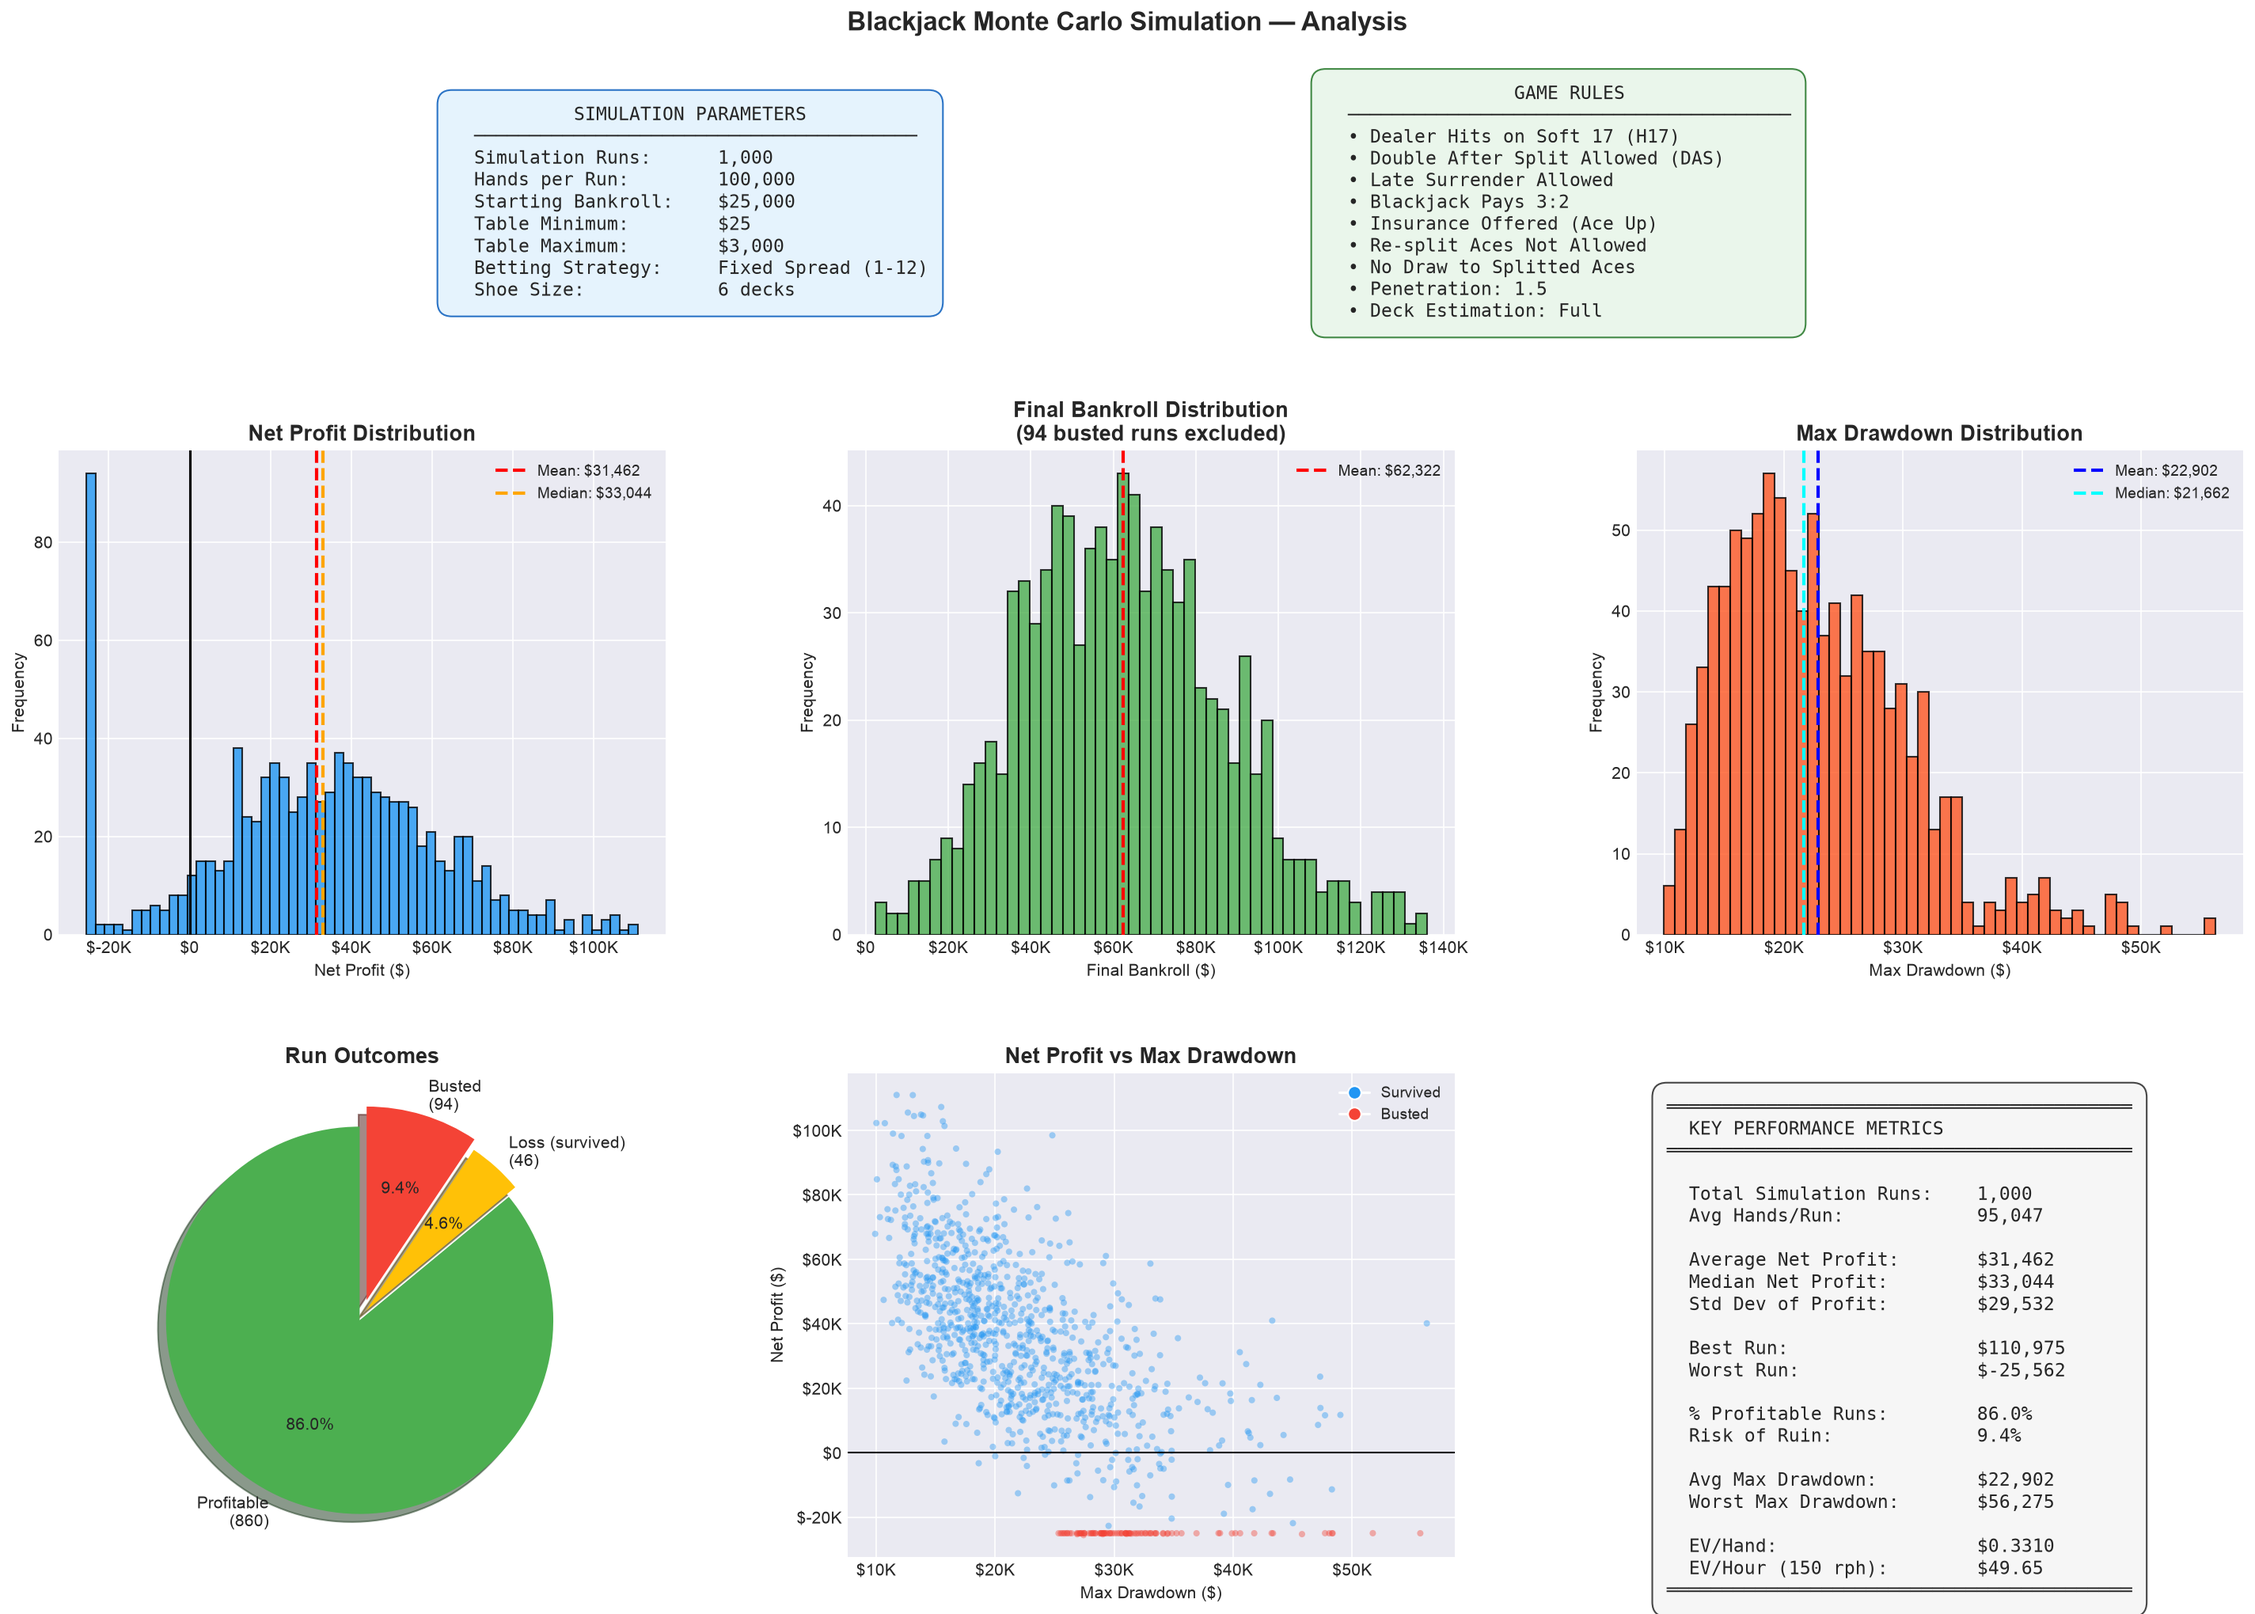
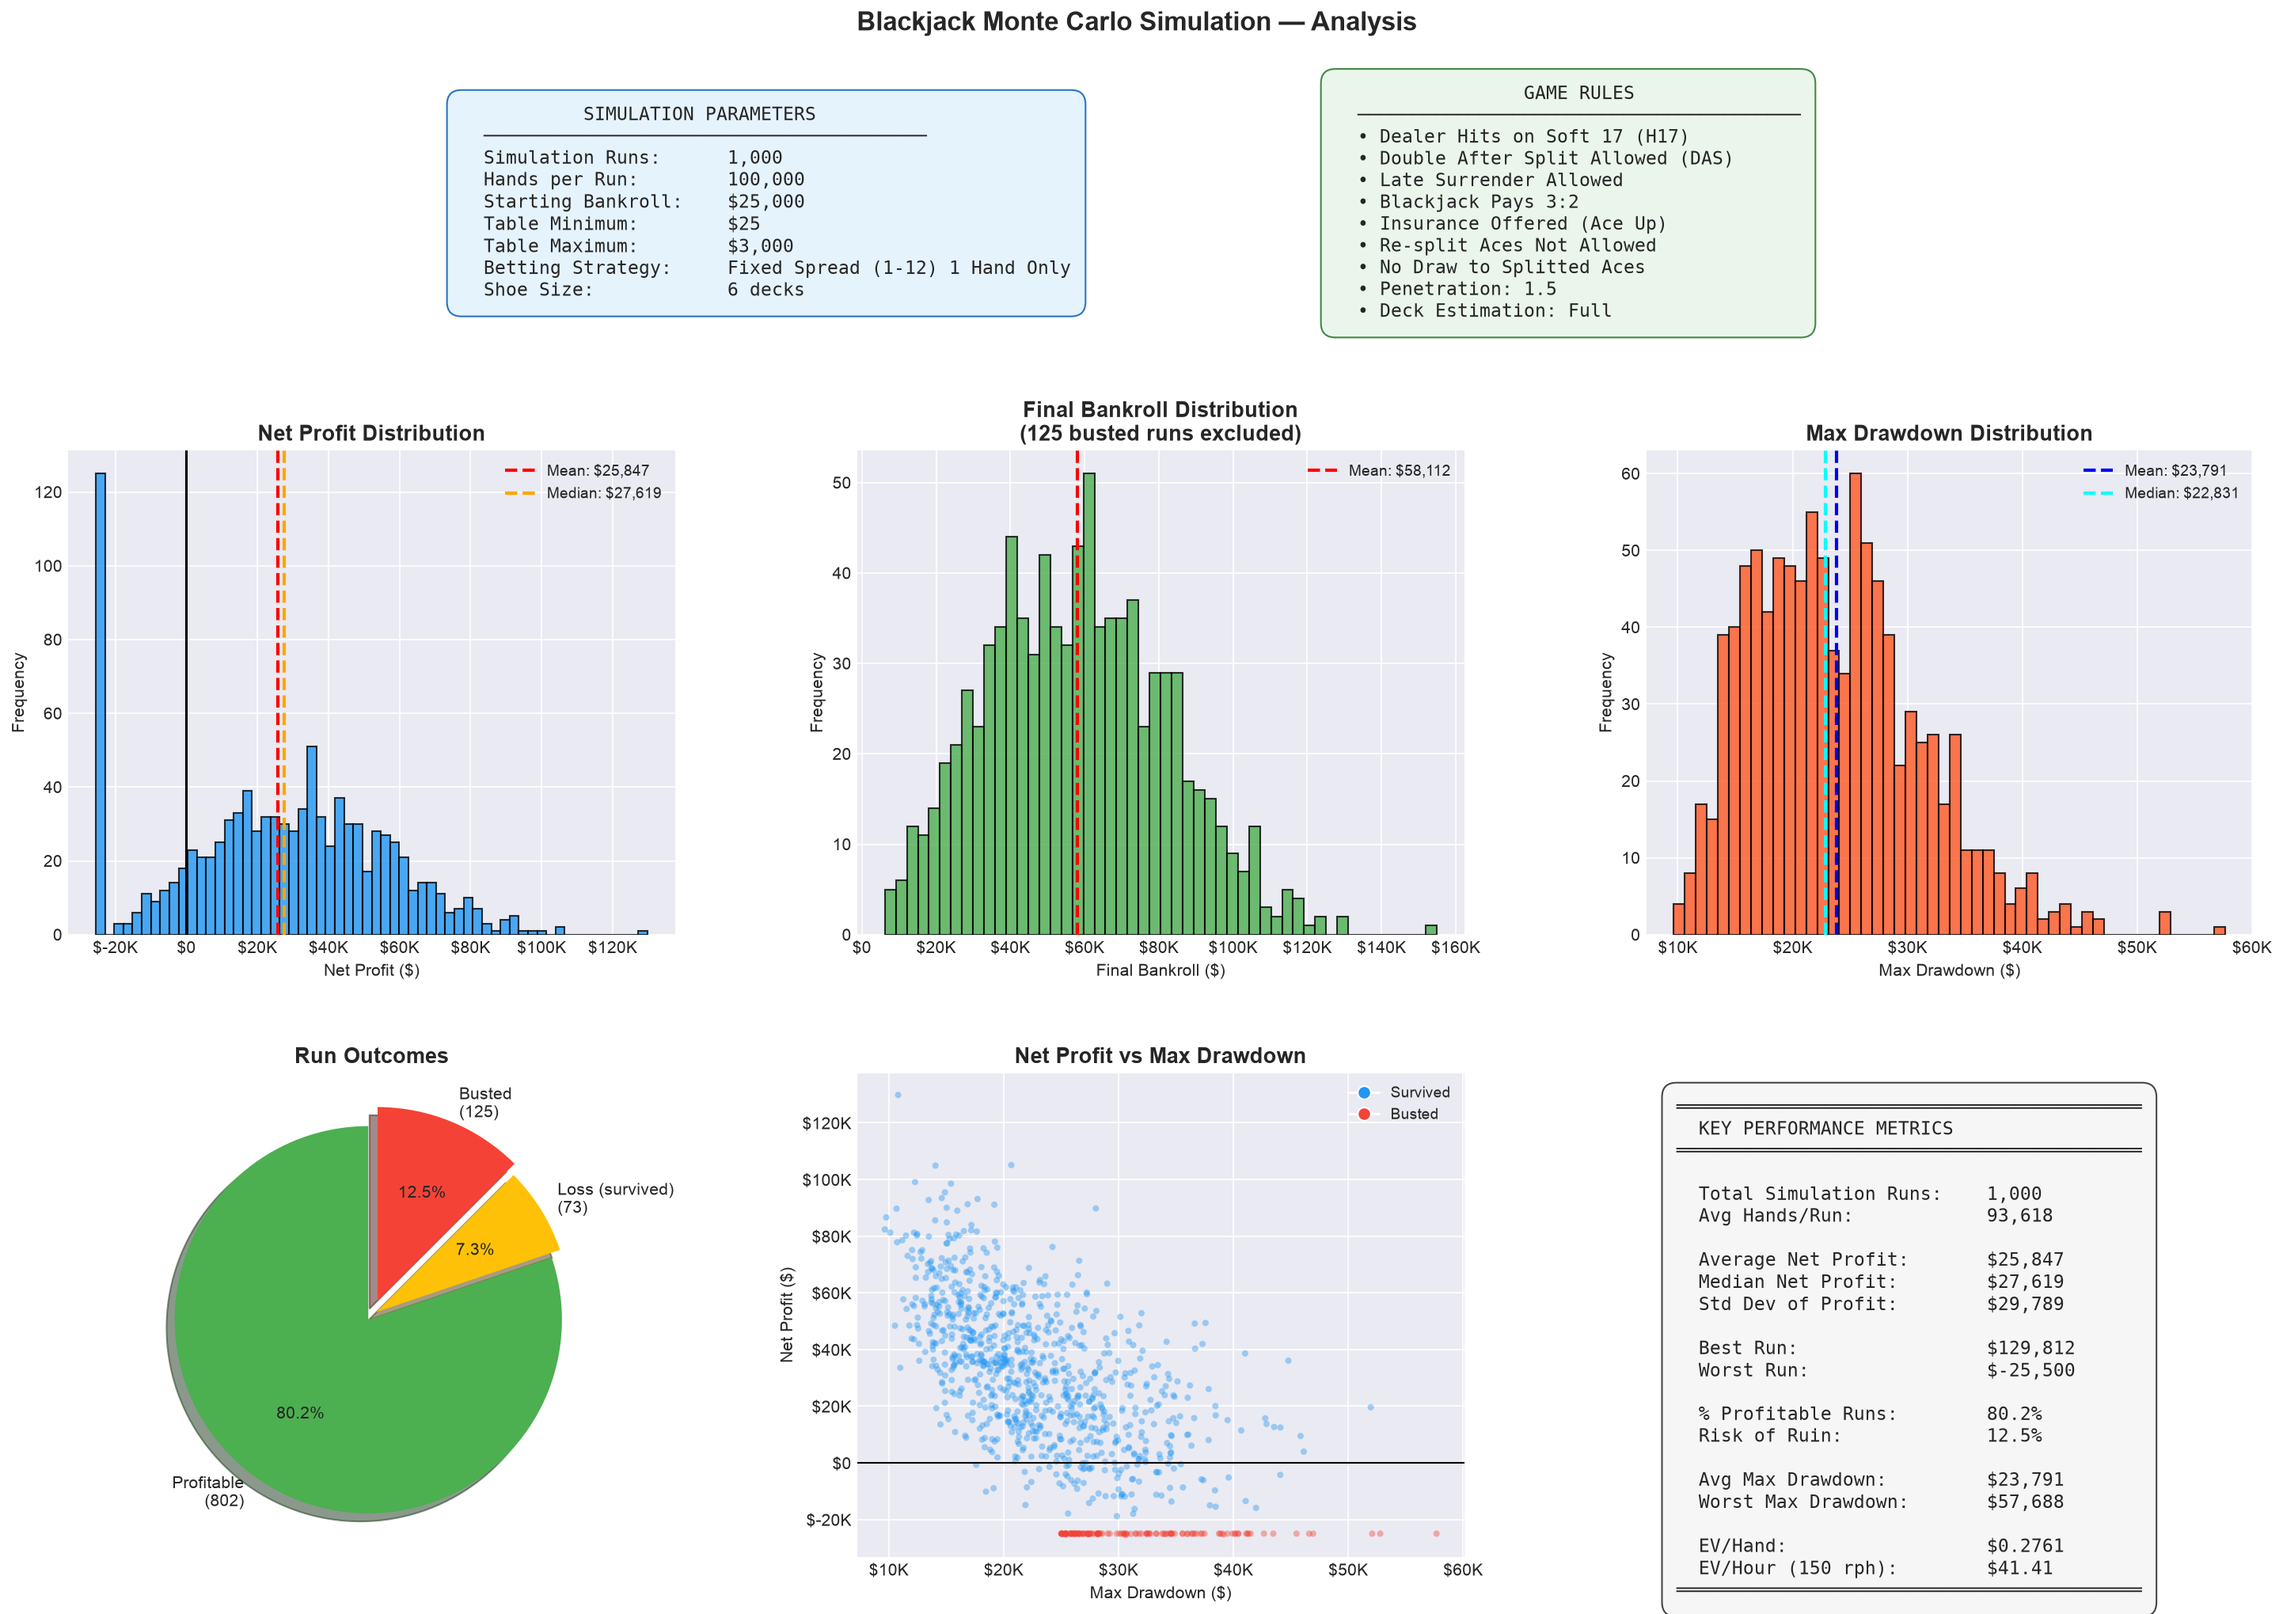
camera ready

diff --git a/src/com/quantshoe/risk/FixedSpreadBettingEngine.java b/src/com/quantshoe/risk/FixedSpreadBettingEngine.java
@@ -6,16 +6,18 @@ public final class FixedSpreadBettingEngine implements BettingStrategy {
     private final int spreadRatio;
     private final int[] ramp;
     private final int[] handsPerLevel;
+    private final int startTC;
 
     /** Default CVCX-matched ramp: 1-2-6-10-12 units at TC +1/+2/+3/+4/+5+. */
     private static final int[] DEFAULT_RAMP = {1, 2, 6, 10, 12};
     private static final int[] DEFAULT_HANDS = {1, 1, 1, 1, 1};
+    private static final int DEFAULT_START_TC = 1;
 
     /**
      * Creates a fixed bet spread with the default 1-2-6-10-12 ramp (single hand at every level).
      */
     public FixedSpreadBettingEngine(double tableMin, double tableMax) {
-        this(tableMin, tableMax, DEFAULT_RAMP, DEFAULT_HANDS);
+        this(tableMin, tableMax, DEFAULT_RAMP, DEFAULT_HANDS, DEFAULT_START_TC);
     }
 
     /**
@@ -23,7 +25,7 @@ public final class FixedSpreadBettingEngine implements BettingStrategy {
      * at or above a threshold, using the default ramp.
      */
     public FixedSpreadBettingEngine(double tableMin, double tableMax, int multiHandThreshold, int multiHandCount) {
-        this(tableMin, tableMax, multiHandThreshold, multiHandCount, DEFAULT_RAMP);
+        this(tableMin, tableMax, multiHandThreshold, multiHandCount, DEFAULT_RAMP, DEFAULT_START_TC);
     }
 
     /**
@@ -31,6 +33,10 @@ public final class FixedSpreadBettingEngine implements BettingStrategy {
      * Multi-hand count is applied at every TC level >= multiHandThreshold.
      */
     public FixedSpreadBettingEngine(double tableMin, double tableMax, int multiHandThreshold, int multiHandCount, int[] ramp) {
+        this(tableMin, tableMax, multiHandThreshold, multiHandCount, ramp, DEFAULT_START_TC);
+    }
+
+    public FixedSpreadBettingEngine(double tableMin, double tableMax, int multiHandThreshold, int multiHandCount, int[] ramp, int startTC) {
         if (ramp == null || ramp.length == 0) {
             throw new IllegalArgumentException("Ramp must contain at least one entry.");
         }
@@ -38,10 +44,11 @@ public final class FixedSpreadBettingEngine implements BettingStrategy {
         this.tableMax = tableMax;
         this.spreadRatio = (int) Math.round(tableMax / tableMin);
         this.ramp = ramp.clone();
+        this.startTC = startTC;
         // Build per-level hands array from threshold/count
         this.handsPerLevel = new int[ramp.length];
         for (int i = 0; i < ramp.length; i++) {
-            int tc = i + 1; // ramp index 0 = TC +1
+            int tc = startTC + i;
             this.handsPerLevel[i] = (tc >= multiHandThreshold) ? multiHandCount : 1;
         }
     }
@@ -55,6 +62,10 @@ public final class FixedSpreadBettingEngine implements BettingStrategy {
      * @param handsPerLevel Number of hands to play at each TC level (same length as ramp).
      */
     public FixedSpreadBettingEngine(double tableMin, double tableMax, int[] ramp, int[] handsPerLevel) {
+        this(tableMin, tableMax, ramp, handsPerLevel, DEFAULT_START_TC);
+    }
+
+    public FixedSpreadBettingEngine(double tableMin, double tableMax, int[] ramp, int[] handsPerLevel, int startTC) {
         if (ramp == null || ramp.length == 0) {
             throw new IllegalArgumentException("Ramp must contain at least one entry.");
         }
@@ -66,22 +77,21 @@ public final class FixedSpreadBettingEngine implements BettingStrategy {
         this.spreadRatio = (int) Math.round(tableMax / tableMin);
         this.ramp = ramp.clone();
         this.handsPerLevel = handsPerLevel.clone();
+        this.startTC = startTC;
     }
 
     @Override
     public double calculateOptimalWager(double trueCount, double currentBankroll) {
-        // TC <= +1 always bets 1 unit (ramp[0])
-        if (trueCount < 2) return Math.min(tableMin * ramp[0], tableMax);
-        // Walk the ramp for TC +2, +3, ... up to the last entry
-        int index = (int) trueCount - 1; // TC +2 → index 1, TC +3 → index 2, etc.
+        int index = (int) trueCount - startTC;
+        if (index < 0) return tableMin;
         if (index >= ramp.length) index = ramp.length - 1;
         return Math.min(tableMin * ramp[index], tableMax);
     }
 
     @Override
     public int getNumHands(double trueCount) {
-        if (trueCount < 1) return 1;
-        int index = (int) trueCount - 1;
+        int index = (int) trueCount - startTC;
+        if (index < 0) return 1;
         if (index >= handsPerLevel.length) index = handsPerLevel.length - 1;
         return handsPerLevel[index];
     }

diff --git a/src/com/quantshoe/Main.java b/src/com/quantshoe/Main.java
@@ -25,7 +25,7 @@ public final class Main {
 
         double startingBankroll = 25000;
         double tableMin = 25;
-        double tableMax = 3000;
+        double tableMax = 300;
         double deckPenetration = 1.5;
 
         boolean lateSurrenderAllowed = true;
@@ -34,7 +34,8 @@ public final class Main {
         String gameMode = "H17";
         String bettingMode = "fixed";
         String deckEstimationMode = "full";
-        String rampStr = "1,2x1,6x1,10x1,12x1";
+        String rampStr = "1,2,6,10,12";
+        int rampStart = 1;
         String outputFilePath = "quant_blackjack_results.csv";
 
         // Parse command-line arguments
@@ -70,6 +71,9 @@ public final class Main {
                 case "--ramp":
                     rampStr = args[++i];
                     break;
+                case "--rampStart":
+                    rampStart = Integer.parseInt(args[++i]);
+                    break;
                 default:
                     System.err.println("Unknown argument: " + args[i]);
                     System.err.println("Usage: java com.quantshoe.Main [options]");
@@ -83,6 +87,7 @@ public final class Main {
                     System.err.println("  --bettingMode <kelly|fixed> Bet sizing strategy (default: fixed)");
                     System.err.println("  --deckEstimation <full|half|quarter> Deck estimation granularity (default: full)");
                     System.err.println("  --ramp <units>             Comma-separated bet ramp in units (default: 1,2x2,6x2,10x2,12x2)");
+                    System.err.println("  --rampStart <int>          True count where the ramp begins (default: 1)");
                     System.exit(1);
             }
         }
@@ -117,7 +122,7 @@ public final class Main {
             bettingStrategy = new KellyBettingEngine();
             System.out.println("Betting Mode: Half-Kelly Criterion");
         } else {
-            bettingStrategy = new FixedSpreadBettingEngine(tableMin, tableMax, ramp, handsPerLevel);
+            bettingStrategy = new FixedSpreadBettingEngine(tableMin, tableMax, ramp, handsPerLevel, rampStart);
             System.out.println("Betting Mode: Fixed Spread ($" + (int) tableMin + "-$" + (int) tableMax + "), Ramp: " + rampStr);
         }
 

diff --git a/visualize_results.py b/visualize_results.py
@@ -24,7 +24,7 @@ def dollar_formatter(x, pos):
 # Simulation starting conditions
 num_decks = 6
 hands_per_run = 100_000
-betting_mode = 'Fixed Spread (1-12)'
+betting_mode = 'Fixed Spread (1-12) 2 Hand at TC2+'
 table_min = 25
 table_max = 3000
 

diff --git a/README.md b/README.md
@@ -45,11 +45,12 @@ git clone https://github.com/virajprakash/quantshoe.git
    | `--gameMode` | string | S17 | Dealer soft-17 rule (`S17` or `H17`) |
    | `--bettingMode` | string | fixed | Bet sizing strategy (`kelly` or `fixed`) |
    | `--deckEstimation` | string | full | Deck estimation granularity (`full`, `half`, or `quarter`) |
-   | `--ramp` | string | 1,2x2,6x2,10x2,12x2 | Comma-separated bet ramp in units per TC level starting at TC +1. Append `xN` to play N hands at that level (e.g. `1,2x2,6x2,10x2,12x2`). |
+   | `--ramp` | string | 1,2x2,6x2,10x2,12x2 | Comma-separated bet ramp in units per TC level starting at `rampStart`. Append `xN` to play N hands at that level (e.g. `1,2x2,6x2,10x2,12x2`). |
+   | `--rampStart` | int | 1 | True count where the ramp begins. TCs below this value bet table minimum with 1 hand. |
 
    **Example:**
    ```bash
-   java com.quantshoe.Main --simRuns 1000 --handsPerRun 100000 --startingBankroll 25000 --tableMin 25 --tableMax 300 --deckPen 1.5 --gameMode H17 --bettingMode fixed --deckEstimation full --ramp 1,2x1,6x1,10x1,12x1
+   java com.quantshoe.Main --simRuns 1000 --handsPerRun 100000 --startingBankroll 25000 --tableMin 25 --tableMax 300 --deckPen 1.5 --gameMode H17 --bettingMode fixed --deckEstimation full --ramp 1,2x1,6x1,10x1,12x1 --rampStart 1
    ```
    All flags are optional — omitted flags use their default values.
 5. Results print to the console and export to `quant_blackjack_results.csv`.
